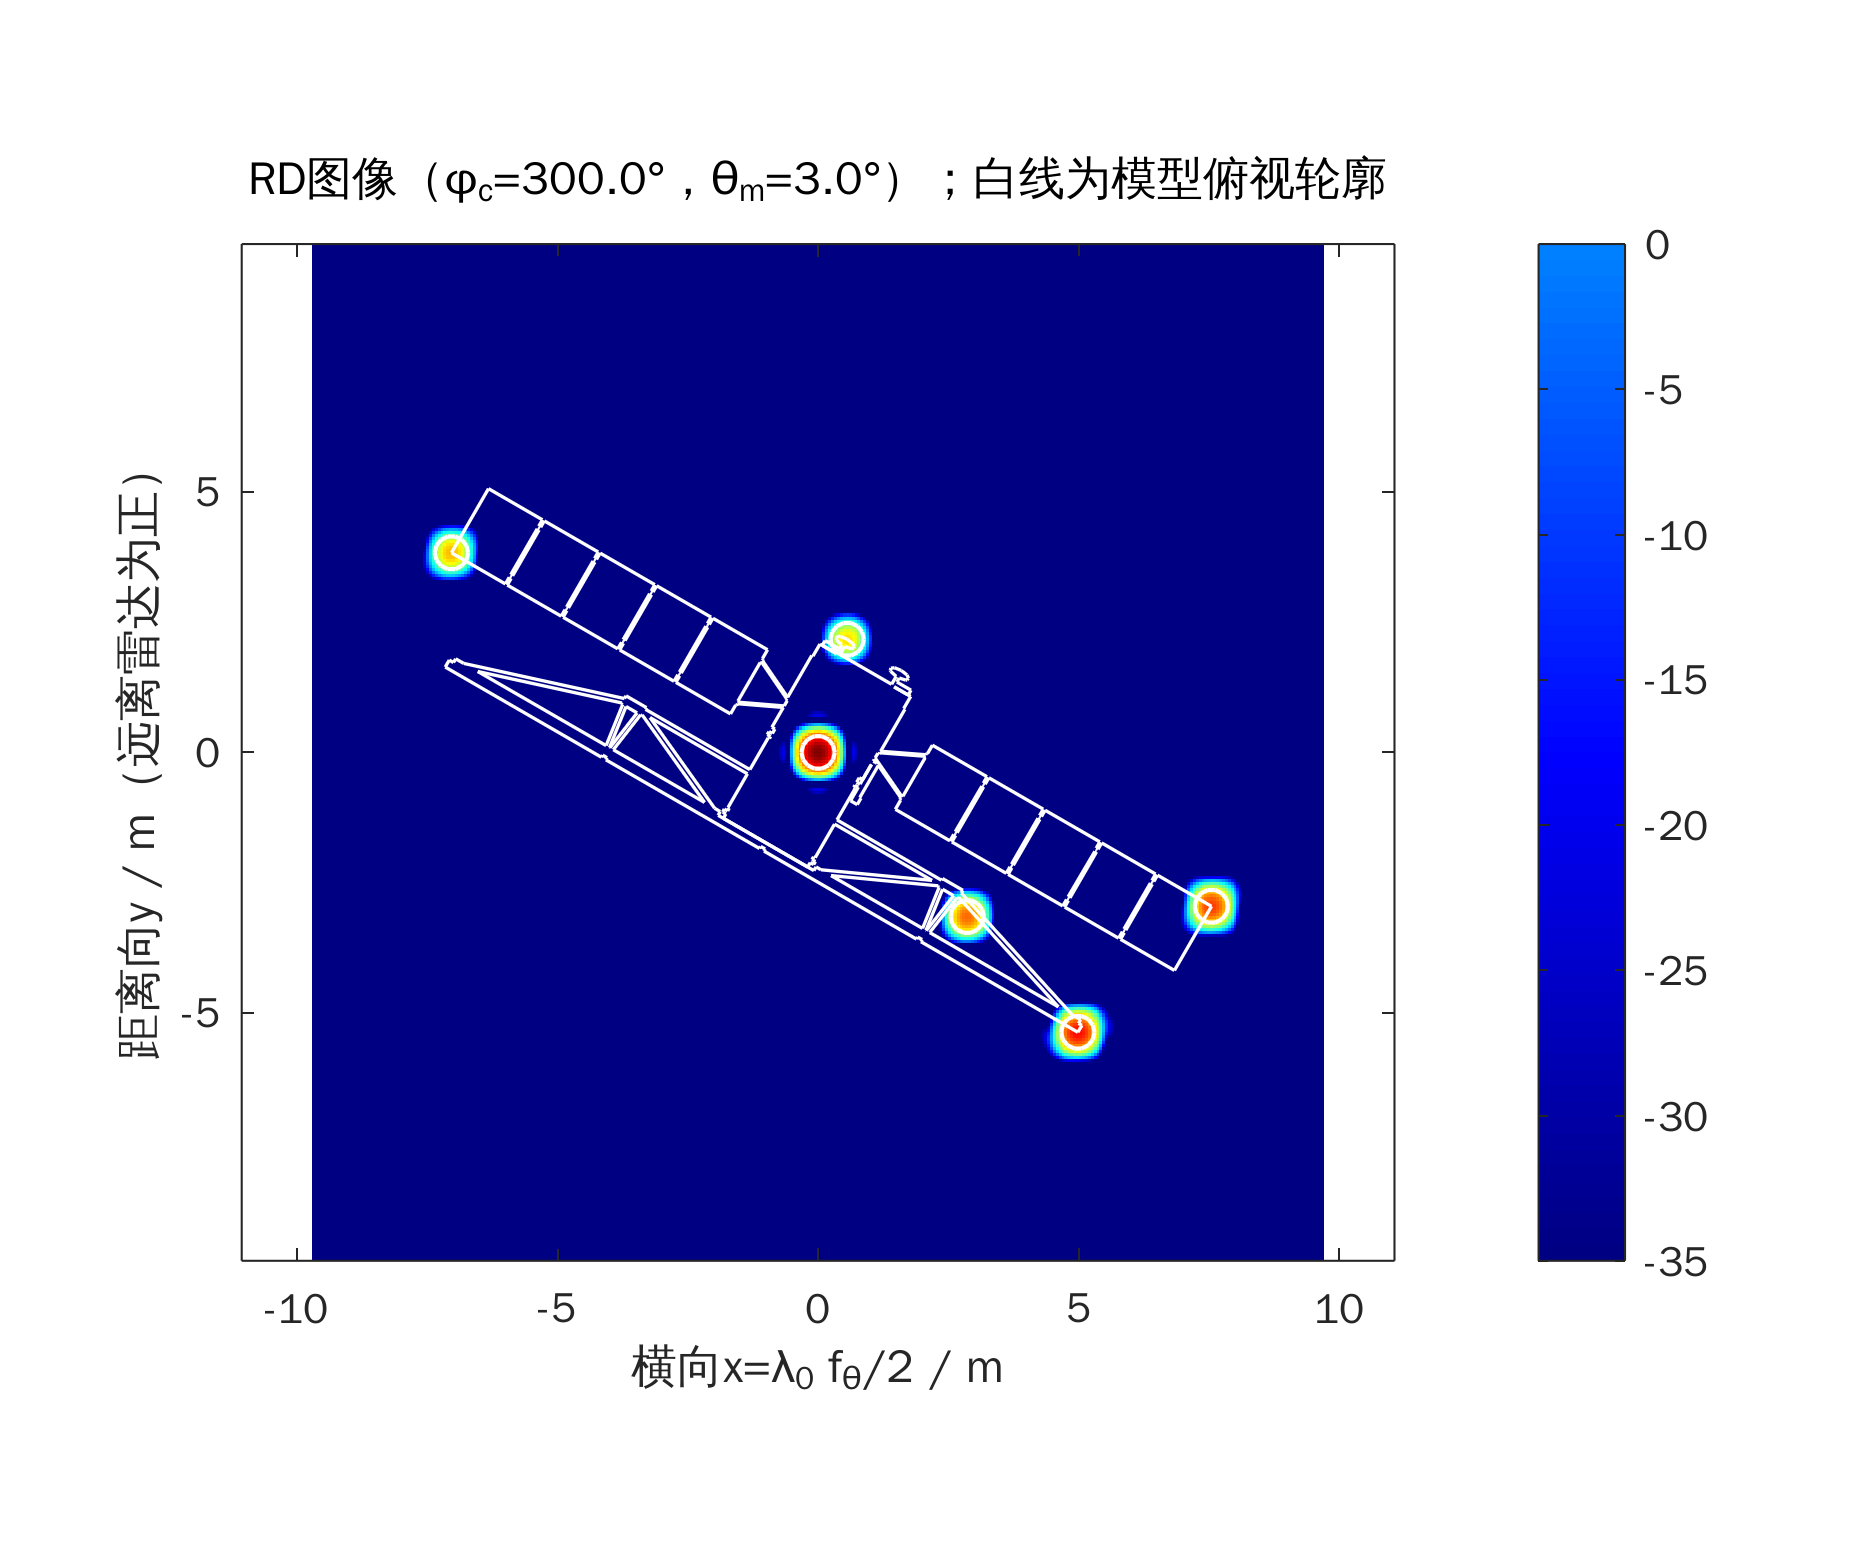
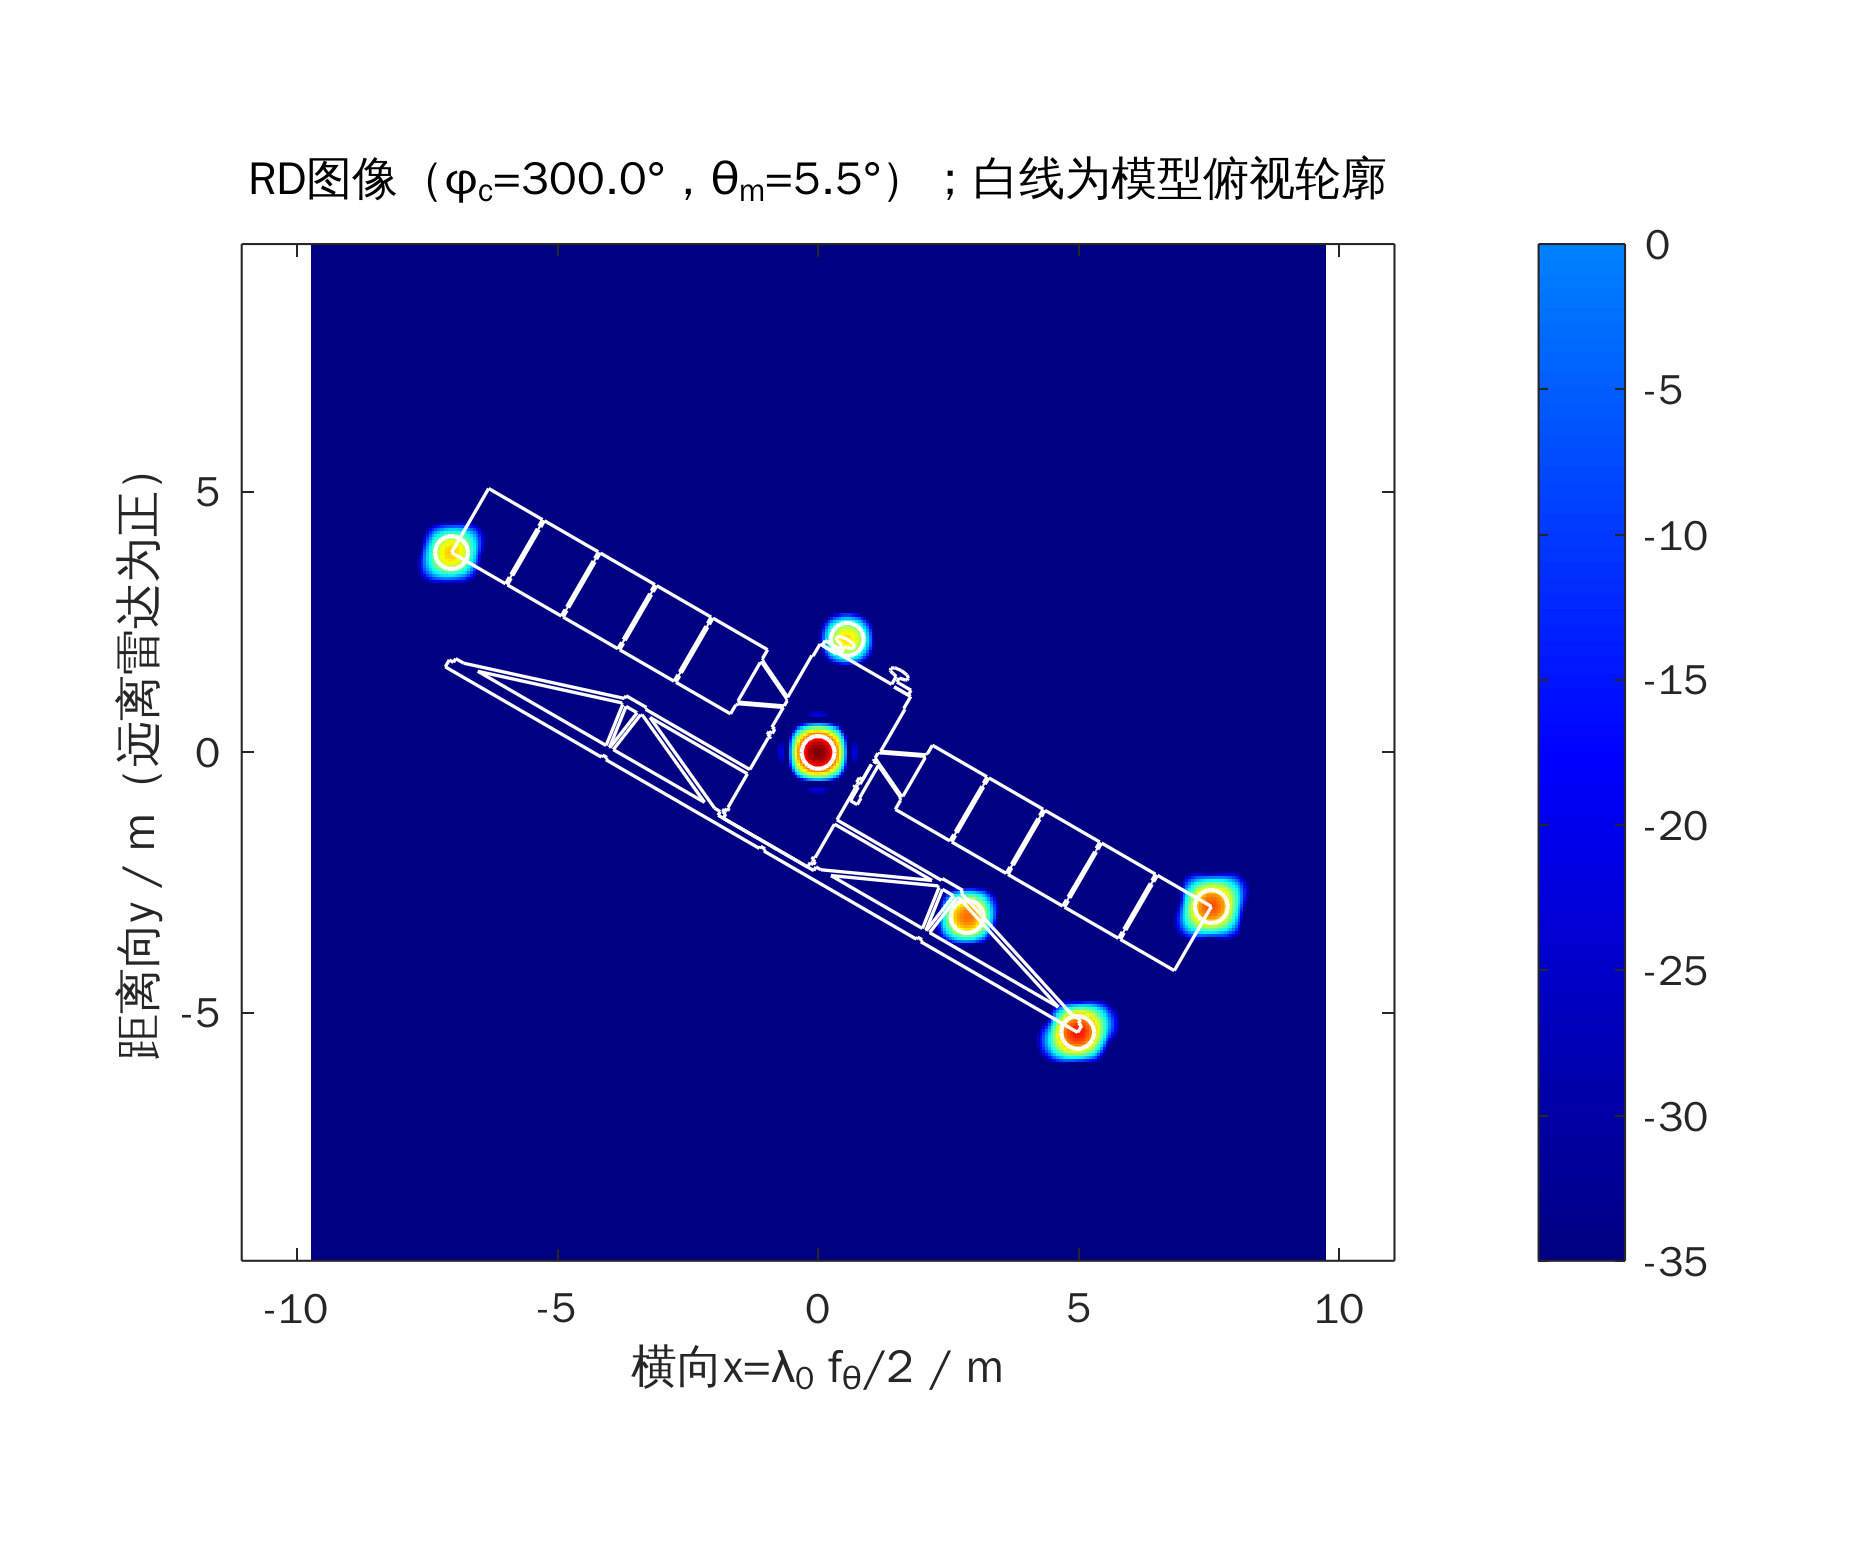
改用C波段5.3 GHz与RL-GO Low射线密度：速度测试结论、参数与操作步骤更新
Claude-Session: https://claude.ai/code/session_01725vZYNoW8xbX1mxdUcgoL

diff --git a/isar/design_params.m b/isar/design_params.m
@@ -18,7 +18,7 @@ os_ua = 1.5; % 不模糊窗口相对目标尺寸的余量：c/(2*delta_f)>os_ua*
 phi_c_deg = 300; % 中心观测方位角（FEKO的phi），deg；270°为正对-y方向（平板镜面闪烁）
 theta_inc_deg = 90; % 雷达俯仰：FEKO的theta，90°表示雷达位于xy平面内（转台平面）
 pol_mode = 'VV'; % 'VV'：eta=0°，接收Etheta；'HH'：eta=90°，接收Ephi
-t_per_point = 1.0; % 每个(频点,角度)单站解的估计耗时，s；平板实测0.16 s/点，试算后替换
+t_per_point = 0.18; % 每个(频点,角度)单站解的耗时，s；5.3 GHz、RL-GO射线密度Low实测（Normal约2.9 s/点）
 
 %% 目标模型
 % Model.outline_xy：俯视轮廓（xy平面投影），N×2，多个多边形之间用NaN行分隔，可直接plot。
@@ -50,7 +50,7 @@ target_radius = L/2; % 最大转动半径，m
 
 %% 电磁波与距离向参数（步进频）
 c = 3e8; % 光速，m/s
-f0 = 10e9; % 中心频率，Hz（X波段）
+f0 = 5.3e9; % 中心频率，Hz（C波段，RADARSAT-1自身SAR的工作频率；试算表明比X波段射线数少、计算快得多）
 lambda = c/f0; % 中心波长，m
 Br = c/(2*rho_design); % 扫频带宽，Hz
 rho_r = c/(2*Br); % 距离向理论分辨率，m（矩形窗）
@@ -70,17 +70,15 @@ f_axis = f_min+(0:Nf-1)*delta_f; % 频率轴，Hz
 % 横向分辨率 rho_a = lambda/(2*theta_m)，令 rho_a ≈ rho_r
 res_a = rho_design; % 希望达到的横向分辨率，m
 theta_m = lambda/(2*res_a); % 所需总转角，rad
-theta_m_deg = ceil(theta_m*180/pi*2)/2; % 向上取到0.5°，便于在FEKO中填写
-theta_m = theta_m_deg*pi/180;
-rho_a = lambda/(2*theta_m); % 实际理论横向分辨率，m
-
 % 角度步进：横向不模糊窗 X_ua = lambda_min/(2*delta_phi) 必须大于 os_ua*L
 delta_phi_max = lambda_min/(2*os_ua*L); % rad
-delta_phi_deg = floor(delta_phi_max*180/pi*100)/100; % 向下取到0.01°
-% 再微调，使总转角恰好是步进的整数倍
-Naz = ceil(theta_m_deg/delta_phi_deg)+1; % 角度点数（含两端点）
-delta_phi_deg = theta_m_deg/(Naz-1);
+delta_phi_deg = floor(delta_phi_max*180/pi*100)/100; % 向下取到0.01°，便于在FEKO中填写
 delta_phi = delta_phi_deg*pi/180;
+% 角度点数：使总转角不小于所需值；再由步进反推实际总转角（保证FEKO中的数都是整齐的）
+Naz = ceil(theta_m*180/pi/delta_phi_deg)+1; % 角度点数（含两端点）
+theta_m_deg = delta_phi_deg*(Naz-1);
+theta_m = theta_m_deg*pi/180;
+rho_a = lambda/(2*theta_m); % 实际理论横向分辨率，m
 X_ua = lambda_min/(2*delta_phi); % 横向不模糊窗（最高频处，最保守），m
 phi_start_deg = phi_c_deg-theta_m_deg/2; % FEKO中phi扫描起点，deg
 phi_end_deg = phi_c_deg+theta_m_deg/2; % FEKO中phi扫描终点，deg

diff --git a/isar/FEKO_操作步骤.md b/isar/FEKO_操作步骤.md
@@ -35,11 +35,11 @@
 
 7. **频率**：*Source/Load* 选项卡 → **Frequency**
    - 下拉框选 **Linearly spaced discrete points**（⚠ 不要选 *Continuous (interpolated) range*，那会用自适应采样，频点不等间隔）
-   - Start = `9.75e9`，End = `10.25e9`，Number of frequencies = `101`（步进 5 MHz，带宽 500 MHz，距离分辨率 0.3 m）
+   - Start = `5.05e9`，End = `5.55e9`，Number of frequencies = `101`（C 波段，中心 5.3 GHz，步进 5 MHz，带宽 500 MHz，距离分辨率 0.3 m）
 8. **平面波**：*Source/Load* 选项卡 → **Plane Wave Source**（整个模型**只建一个**平面波源）
     - 勾选 **Loop over multiple directions**
     - θ：Start = `90`，End = `90`，只取 1 个点（雷达在 xy 平面内）
-    - φ：Start = `298.5`，End = `301.5`，Increment = `0.03`（共 101 个方向，总转角 3°，横向分辨率约 0.29 m）
+    - φ：Start = `297.27`，End = `302.73`，Increment = `0.06`（共 92 个方向，总转角 5.46°，横向分辨率约 0.3 m）
     - Magnitude = `1`（V/m），Phase = `0`
     - 极化角 **η = `0`**：VV 极化，θ=90° 时电场沿 −z（竖直）。若要做 HH，改为 `90`
 9. **单站远场请求**：*Request* 选项卡 → **Far Fields**
@@ -48,23 +48,24 @@
     - Label：`Monostatic`
 10. **RL-GO 设置**（已在 Feko 2025 界面核对）：*Solve/Run* 选项卡 → **Solver Settings** → **High frequency** 页 → *RL-GO settings*，保持默认：
     - **Maximum number of ray interactions：不勾选**（不限制反射次数，二面角、桁架的多次反射都会计入）
-    - **Include edge and wedge diffractions：勾选**（计及棱边/劈绕射，天线和太阳翼的边缘回波更真实）
+    - **Include edge and wedge diffractions：不勾选**（为节省时间关闭；平板边缘的回波仍由物理光学电流截断给出）
     - **Activate enhancements for complex structures：勾选**
-    - 射线密度 **Adaptive → Normal (default)**；试算耗时很短的话，正式求解可改为 High
+    - 射线密度 **Adaptive → Low (fewer rays)**：5.3 GHz 实测 0.18 s/点；Normal 为 2.9 s/点，精度更高，可作为最终版本过夜计算
+    - 速度测试结论（11 个角度）：10 GHz/Normal 约 20 s/点；5.3 GHz/Low 0.18 s/点；5.3 GHz/Normal 2.9 s/点。Low 相对 Normal 的 RCS 偏差标准差约 2.9 dB，主要出现在 RCS 低谷处
 11. 右上角 *Model Status* 应显示 **Model is valid**。
 
 ## 3. 试算 → 正式求解
 
-12. **试算（建议先做）**：把第 7 步临时改为 *Single frequency* `10e9`，只算 101 个角度。
+12. **试算（建议先做）**：把第 7 步临时改为 *Single frequency* `5.3e9`，只算 92 个角度（约 20 s）。
     *Solve/Run* → **Feko Solver**，记下 Out 文件末尾的 *total times*。
     完整求解时间 ≈ 试算时间 × 101（另有少量固定开销）。
-13. **正式求解**：频率改回第 7 步的 101 个频点，保存，**Feko Solver**。共 10201 个单站解，预计 3–8 小时（以试算结果为准），可以放到晚上算。
+13. **正式求解**：频率改回第 7 步的 101 个频点，保存，**Feko Solver**。共 9292 个单站解，射线密度 Low 时约 30 分钟（Normal 约 7.5 小时）。
 14. 求解结束后，模型文件夹里应出现 **`radarsat1_Monostatic.ffe`**（文件名可能略有不同，扩展名一定是 `.ffe`）。
 
 ## 4. 检查结果并导出（POSTFEKO）
 
 15. *Solve/Run* → **POSTFEKO**。新建 **Cartesian** 图，把 `Monostatic` 拖进图中：
-    - 横轴 *Plane Wave Phi*，固定 Frequency = 10 GHz，Quantity 选 **Radar cross section (RCS)**，勾 **dB**：得到 RCS 随方位角变化的曲线
+    - 横轴 *Plane Wave Phi*，固定 Frequency = 5.3 GHz，Quantity 选 **Radar cross section (RCS)**，勾 **dB**：得到 RCS 随方位角变化的曲线
     - 横轴改为 *Frequency*：得到 RCS 随频率变化的曲线
     - 截图保存，汇报时会用到
 16. 若第 14 步没有生成 .ffe：⚠ 在 POSTFEKO 中选中 `Monostatic` → *Home* → **Export** → *Data*，格式选 Feko far field (\*.ffe)。
@@ -78,10 +79,10 @@
 ## 5. 附加：全方位 RCS 曲线（汇报用，可选）
 
 18. **File → Save as** 另存为 `radarsat1_rcs360.cfx`，只改两处：
-    - 频率：*Single frequency* `10e9`
+    - 频率：*Single frequency* `5.3e9`
     - 平面波 φ：Start = `0`，End = `359.5`，Increment = `0.5`（720 个方向）
 19. 求解后把 .ffe 复制到 `isar/data/`，运行 `plot_rcs_360.m`，画出 0°~360° 的 RCS 曲线。
-    预期：φ=270° 时 SAR 天线平板（约 14 m×2 m）正对雷达，出现全方位最强的镜面峰（理论上可达 70 dBsm 量级）；
+    预期：φ=270° 时 SAR 天线平板（约 14 m×2 m）正对雷达，出现全方位最强的镜面峰（理论上可达 65 dBsm 量级）；
     φ=90° 时雷达从背面看，会看到天线背面的桁架和本体；太阳翼接近水平，雷达在 xy 平面内只能看到它的侧棱，回波较弱。
 
 ## 常见问题

diff --git a/isar/params_table.md b/isar/params_table.md
@@ -1,18 +1,18 @@
 | 参数 | 符号 | 数值 | 说明 |
 |---|---|---|---|
-| 目标最大尺寸 | L | 16.21 m | 电尺寸约 554 λ |
-| 中心频率 | f0 | 10.00 GHz | λ0 = 3.00 cm |
-| 带宽 | Br | 500 MHz | 9.750~10.250 GHz |
+| 目标最大尺寸 | L | 16.21 m | 电尺寸约 300 λ |
+| 中心频率 | f0 | 5.30 GHz | λ0 = 5.66 cm |
+| 带宽 | Br | 500 MHz | 5.050~5.550 GHz |
 | 频率步进 | Δf | 5.00 MHz | 上限 c/(2·1.5L) = 6.17 MHz |
 | 频点数 | Nf | 101 | |
 | 不模糊距离 | c/(2Δf) | 30.00 m | > 1.5L = 24.32 m |
-| 总转角 | θm | 3.00° | φ: 298.500°~301.500° |
-| 角度步进 | Δφ | 0.0300° | 上限 λmin/(2·1.5L) = 0.0345° |
-| 角度点数 | Naz | 101 | |
-| 横向不模糊窗 | λmin/(2Δφ) | 27.95 m | > 24.32 m |
+| 总转角 | θm | 5.46° | φ: 297.270°~302.730° |
+| 角度步进 | Δφ | 0.0600° | 上限 λmin/(2·1.5L) = 0.0637° |
+| 角度点数 | Naz | 92 | |
+| 横向不模糊窗 | λmin/(2Δφ) | 25.81 m | > 24.32 m |
 | 距离分辨率 | ρr = c/(2Br) | 0.300 m | 矩形窗 |
-| 横向分辨率 | ρa = λ0/(2θm) | 0.286 m | 矩形窗 |
+| 横向分辨率 | ρa = λ0/(2θm) | 0.297 m | 矩形窗 |
 | 极化 | | VV | 平面波 η=0°，接收 Etheta |
 | 雷达俯仰 | θ | 90° | 雷达在转台平面内 |
 | 中心方位 | φc | 300.0° | 相对 -y 方向转过 30.0° |
-| 单站解总数 | Nf×Naz | 10201 | 另加 RCS 曲线 721 点 |
+| 单站解总数 | Nf×Naz | 9292 | 另加 RCS 曲线 721 点 |
